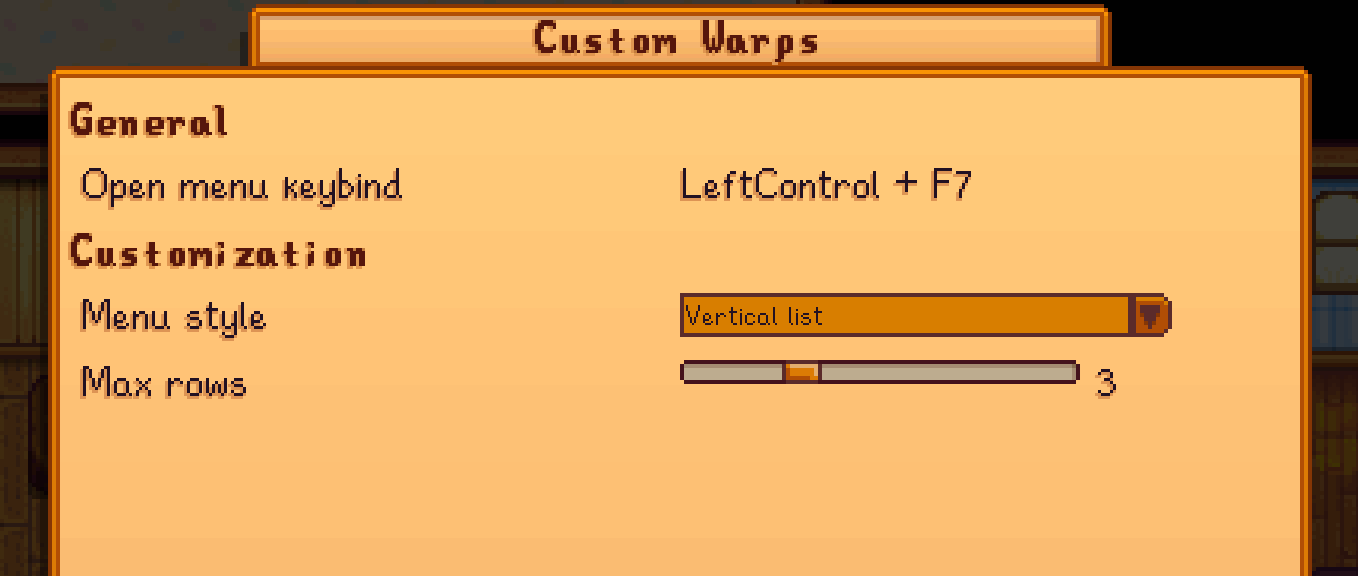
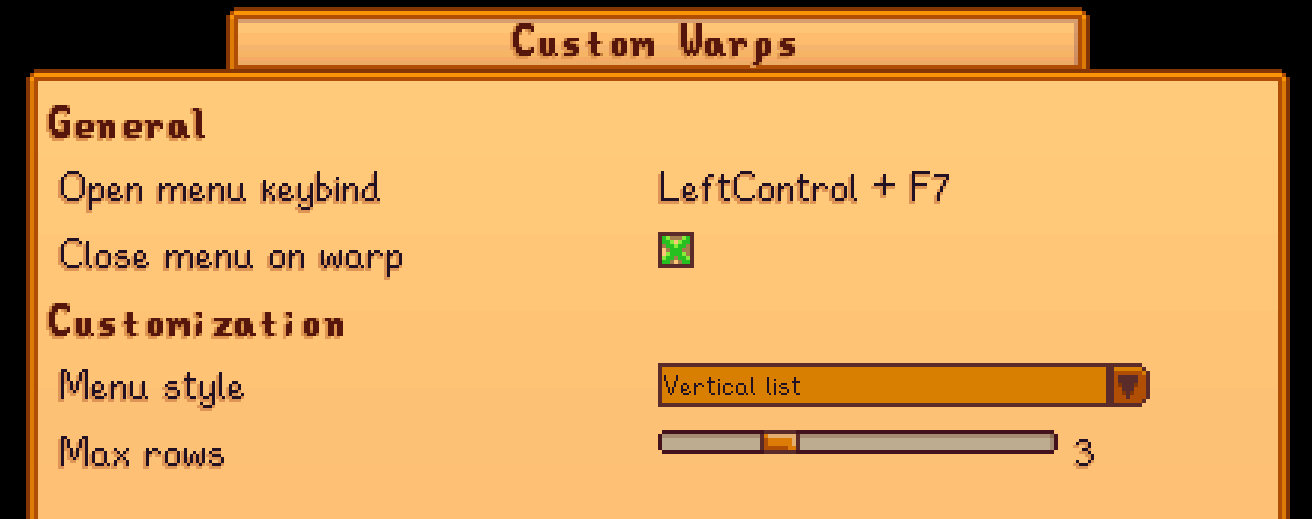
Mod update
Added config toggle to close the warp menu after a warp (enabled by default)

diff --git a/CustomWarps/Common/Menus/GridWarpMenu.cs b/CustomWarps/Common/Menus/GridWarpMenu.cs
@@ -56,6 +56,9 @@ namespace CustomWarps.Common.Menus {
     /// <inheritdoc cref="WarpHelper" />
     private readonly WarpHelper _warpHelper;
 
+    /// <summary>Whether to close the menu after a warp.</summary>
+    private readonly bool _closeMenuOnWarp;
+
     /// <summary>The current page.</summary>
     private int _currentPage;
 
@@ -76,23 +79,33 @@ namespace CustomWarps.Common.Menus {
 
     /// <summary>The tile location of the new warp.</summary>
     private Vector2 _newWarpTile;
+    
+    // /// <summary>The warp search text box.</summary>
     // private readonly TextBox _searchTextBox;
+    
+    // ///<summary>Whether the search text box is active.</summary>
     // private bool _isSearching;
+    
+    // ///<summary>The clickable component for the text box.</summary>
     // private readonly ClickableComponent _searchTextBoxComponent;
+    
+    // ///<summary>The search button.</summary>
     // private readonly ClickableTextureComponent _searchButton;
 
     /// <summary>The menu constructor.</summary>
     /// <param name="helper">Simplified API for writing mods.</param>
     /// <param name="warpHelper">A helper class for handling custom warp data.</param>
+    /// <param name="closeMenuOnWarp">Whether to close the menu after a warp.</param>
     /// <param name="maxItemsPerRow">How many items should be visible on one column.</param>
     /// <param name="maxItemsPerColumn">How many items should be visible on one row.</param>
     // TODO: handle vertical list or create a separate menu class for it?
     // TODO: menu handling for controller
-    public GridWarpMenu(IModHelper helper, WarpHelper warpHelper, int maxItemsPerRow = 8, int maxItemsPerColumn = 3) {
+    public GridWarpMenu(IModHelper helper, WarpHelper warpHelper, bool closeMenuOnWarp = true, int maxItemsPerRow = 8, int maxItemsPerColumn = 3) {
       /* : base(Game1.viewport.Width / 2 - (632 + borderWidth * 2) / 2, Game1.viewport.Height / 2 - (600 + borderWidth * 2) / 2 - 64 + 296, 632 + borderWidth * 2, 600 + borderWidth * 2 + 16) */
 
       this._helper = helper;
       this._warpHelper = warpHelper;
+      this._closeMenuOnWarp = closeMenuOnWarp;
       this._maxItemsPerRow = maxItemsPerRow;
       this._maxItemsPerColumn = maxItemsPerColumn + 1; // exclusive upper bound
 
@@ -244,35 +257,23 @@ namespace CustomWarps.Common.Menus {
         //   Game1.playSound("drumkit6");
         // }
 
-        foreach (KeyValuePair<ClickableTextureComponent, CustomWarp> pair in this._customWarpPages[this._currentPage]) {
-          if (!pair.Key.containsPoint(x, y))
-            continue;
-
+        foreach (KeyValuePair<ClickableTextureComponent, CustomWarp> pair in this._customWarpPages[this._currentPage].Where(pair => pair.Key.containsPoint(x, y))) {
           if (this._isRemovingWarp) {
             Game1.player.currentLocation.createQuestionDialogue(I18n.Strings_Removewarp_Questiontext(pair.Value.WarpName), Game1.player.currentLocation.createYesNoResponses(), (_, answer) => {
               if (answer == "Yes") this._warpHelper.TryRemove(pair.Value.WarpUniqueId, pair.Value.IsGlobal);
             });
-            Game1.playSound("drumkit6");
           }
           else {
             // Game1.warpFarmer(pair.Value.MapName, pair.Value.TileX, pair.Value.TileY, false);
             LocationRequest location = Game1.getLocationRequest(pair.Value.MapName);
             location.OnWarp += () => Game1.player.position.Set(new Vector2(pair.Value.TileX, pair.Value.TileY) * 64f);
             Game1.warpFarmer(location, pair.Value.TileX, pair.Value.TileY, Game1.player.FacingDirection);
-            Game1.playSound("drumkit6");
           }
-
-          // if (this._isSearching) {
-          //   this._searchTextBox.Selected = true;
-          //   this._searchTextBox.SelectMe();
-          //   this._searchTextBox.Update();
-          // }
-
-          // if (pair.Key.scale == 0.0) 
-          //   continue;
-          //
-          // pair.Key.scale -= 0.25f;
-          // pair.Key.scale = Math.Max(0.75f, pair.Key.scale);
+          
+          Game1.playSound("drumkit6");
+          
+          if (this._closeMenuOnWarp)
+            this.exitThisMenu();
         }
 
         return;

diff --git a/CustomWarps/Common/Menus/VerticalListWarpMenu.cs b/CustomWarps/Common/Menus/VerticalListWarpMenu.cs
@@ -75,6 +75,9 @@ namespace CustomWarps.Common.Menus {
 
     /// <inheritdoc cref="WarpHelper" />
     private readonly WarpHelper _warpHelper;
+    
+    /// <summary>Whether to close the menu after a warp.</summary>
+    private readonly bool _closeMenuOnWarp;
 
     /// <summary>The current warp index.</summary>
     private int _currentItemIndex;
@@ -105,19 +108,23 @@ namespace CustomWarps.Common.Menus {
 
     /// <summary>The rectangle behind the scrollbar element that can be clicked.</summary>
     private Rectangle _scrollBarRunner;
+    
+    // ///<summary>The search button.</summary>
     // private readonly ClickableTextureComponent _searchButton;
 
     /// <summary>The menu constructor.</summary>
     /// <param name="helper">Simplified API for writing mods.</param>
     /// <param name="warpHelper">A helper class for handling custom warp data.</param>
+    /// <param name="closeMenuOnWarp">Whether to close the menu after a warp.</param>
     // TODO: handle numbers better instead of using arbitrary (and seemingly random) numbers?
     // TODO: better icons for add and remove warp buttons?
     // TODO: separate adding and naming a warp into separate (sub)menus?
     // TODO: handle search text box logic
     // TODO: handle controller logic?
-    public VerticalListWarpMenu(IModHelper helper, WarpHelper warpHelper) {
+    public VerticalListWarpMenu(IModHelper helper, WarpHelper warpHelper, bool closeMenuOnWarp = true) {
       this._helper = helper;
       this._warpHelper = warpHelper;
+      this._closeMenuOnWarp = closeMenuOnWarp;
 
       this.xPositionOnScreen = Game1.uiViewport.Width / 2 - (800 + borderWidth * 2) / 2;
       this.yPositionOnScreen = Game1.uiViewport.Height / 2 - (600 + borderWidth * 2) / 2;
@@ -276,9 +283,11 @@ namespace CustomWarps.Common.Menus {
             location.OnWarp += () => Game1.player.position.Set(new Vector2(warp.TileX, warp.TileY) * 64f);
             Game1.warpFarmer(location, warp.TileX, warp.TileY, Game1.player.FacingDirection);
           }
-
+          
           Game1.playSound("drumkit6");
-          // this.exitThisMenu();
+          
+          if (this._closeMenuOnWarp)
+            this.exitThisMenu();
         }
 
         return;

diff --git a/CustomWarps/Common/Configs/GenericModConfig.cs b/CustomWarps/Common/Configs/GenericModConfig.cs
@@ -61,6 +61,14 @@ namespace CustomWarps.Common.Configs {
         I18n.Config_Menutoggle_Name,
         I18n.Config_Menutoggle_Tooltip
       );
+      
+      genericModConfig.AddBoolOption(
+        this._modManifest,
+        () => this._getConfig().CloseMenuOnWarp,
+        value => this._getConfig().CloseMenuOnWarp = value,
+        I18n.Config_Closeonwarp_Name,
+        I18n.Config_Closeonwarp_Tooltip
+      );
 
       genericModConfig.AddSectionTitle(
         this._modManifest,
@@ -77,27 +85,27 @@ namespace CustomWarps.Common.Configs {
         GenericModConfig.TranslateMenuStyle
       );
 
-      // genericModConfig.AddNumberOption(
-      //   this._modManifest,
-      //   () => this._getConfig().MaxItemsPerGridRow,
-      //   value => this._getConfig().MaxItemsPerGridRow = value,
-      //   I18n.Config_Maxrows_Name,
-      //   I18n.Config_Maxrows_Tooltip,
-      //   1,
-      //   10,
-      //   1
-      // );
-
       genericModConfig.AddNumberOption(
         this._modManifest,
-        () => this._getConfig().MaxGridColumns,
-        value => this._getConfig().MaxGridColumns = value,
+        () => this._getConfig().MaxGridRows,
+        value => this._getConfig().MaxGridRows = value,
         I18n.Config_Maxrows_Name,
         I18n.Config_Maxrows_Tooltip,
         1,
         8,
         1
       );
+
+      // genericModConfig.AddNumberOption(
+      //   this._modManifest,
+      //   () => this._getConfig().MaxGridColumns,
+      //   value => this._getConfig().MaxGridColumns = value,
+      //   I18n.Config_Maxcolumns_Name,
+      //   I18n.Config_Maxcolumns_Tooltip,
+      //   1,
+      //   10,
+      //   1
+      // );
     }
 
     /// <summary>Translates the <see cref="MenuStyle" /> text.</summary>

diff --git a/CustomWarps/Common/Configs/ModConfig.cs b/CustomWarps/Common/Configs/ModConfig.cs
@@ -8,11 +8,16 @@ namespace CustomWarps.Common.Configs {
     /// <summary>The keybind to use to open the menu.</summary>
     public KeybindList ToggleKey { get; set; } = new(SButton.F7);
 
+    /// <summary>Whether to close the menu after warping.</summary>
+    public bool CloseMenuOnWarp { get; set; } = true;
+
     /// <summary>The menu style.</summary>
     public MenuStyle MenuStyle { get; set; } = MenuStyle.VerticalList;
 
-    /// <summary>How many columns should be visible when using <see cref="MenuStyle.LegacyGrid" />.</summary>
-    public int MaxGridColumns { get; set; } = 3;
-    // public int MaxItemsPerGridRow { get; set; } = 8;
+    /// <summary>How many rows should be visible on one page when using <see cref="MenuStyle.LegacyGrid" />.</summary>
+    public int MaxGridRows { get; set; } = 3;
+    
+    // /// <summary>How many columns should be visible on one page when using <see cref="MenuStyle.LegacyGrid" />.</summary>
+    // public int MaxGridColumns { get; set; } = 8;
   }
 }

diff --git a/CustomWarps/ModEntry.cs b/CustomWarps/ModEntry.cs
@@ -61,8 +61,8 @@ namespace CustomWarps {
 
       WarpHelper warpHelper = new(this.Helper.Data);
       Game1.activeClickableMenu = this._config.MenuStyle switch {
-        MenuStyle.LegacyGrid => new GridWarpMenu(this.Helper, warpHelper, maxItemsPerColumn: this._config.MaxGridColumns),
-        MenuStyle.VerticalList => new VerticalListWarpMenu(this.Helper, warpHelper),
+        MenuStyle.LegacyGrid => new GridWarpMenu(this.Helper, warpHelper, this._config.CloseMenuOnWarp, maxItemsPerColumn: this._config.MaxGridRows),
+        MenuStyle.VerticalList => new VerticalListWarpMenu(this.Helper, warpHelper, this._config.CloseMenuOnWarp),
         _ => Game1.activeClickableMenu
       };
     }

diff --git a/CustomWarps/docs/release-notes.md b/CustomWarps/docs/release-notes.md
@@ -2,7 +2,11 @@
 
 # Release notes
 
-# 1.1.0
+## 1.1.1
+
+- Added config toggle to close the warp menu after a warp (defaults to `true`)
+
+## 1.1.0
 
 - Added default i18n translations (english)
 - Added Generic Mod Config Menu integration
@@ -12,10 +16,10 @@
 - Added more configuration options:
   - Made the grid-like menu slightly customizable: max columns
 
-# 1.0.1
+## 1.0.1
 
 - Recompile for SMAPI 2.11 compatibility
 
-# 1.0.0
+## 1.0.0
 
 - Initial release

diff --git a/CustomWarps/docs/README.md b/CustomWarps/docs/README.md
@@ -24,6 +24,11 @@ This mod has [Generic Mod Config Menu](https://www.nexusmods.com/stardewvalley/m
 <td><code>"F7"</code></td>
 </tr>
 <tr>
+<td><code>CloseMenuOnWarp</code></td>
+<td>Whether to close the warp menu after a warp</td>
+<td><code>true</code></td>
+</tr>
+<tr>
 <td><code>MenuStyle</code></td>
 <td>
 
